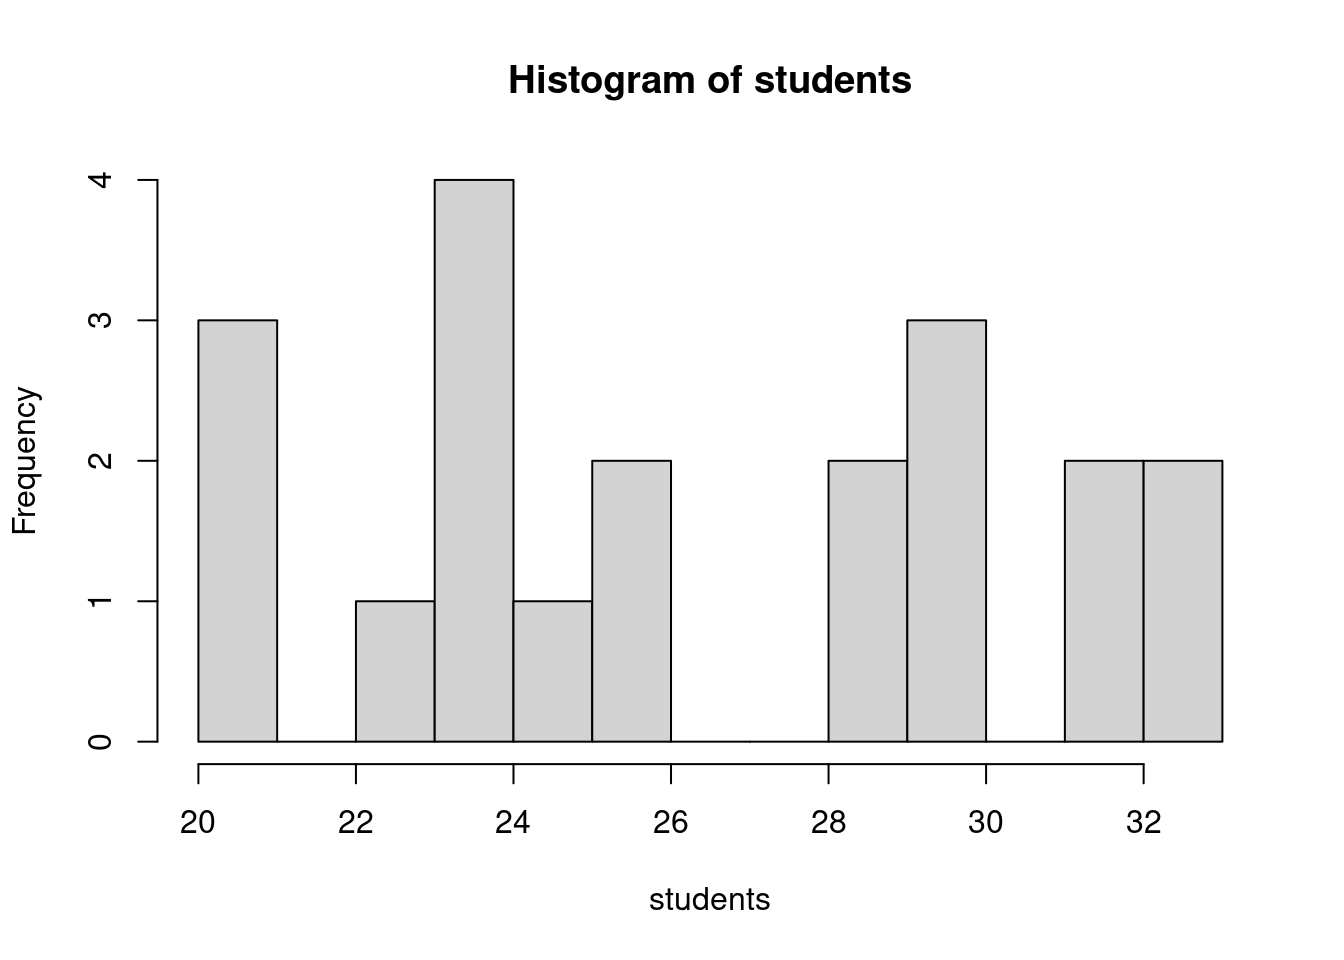
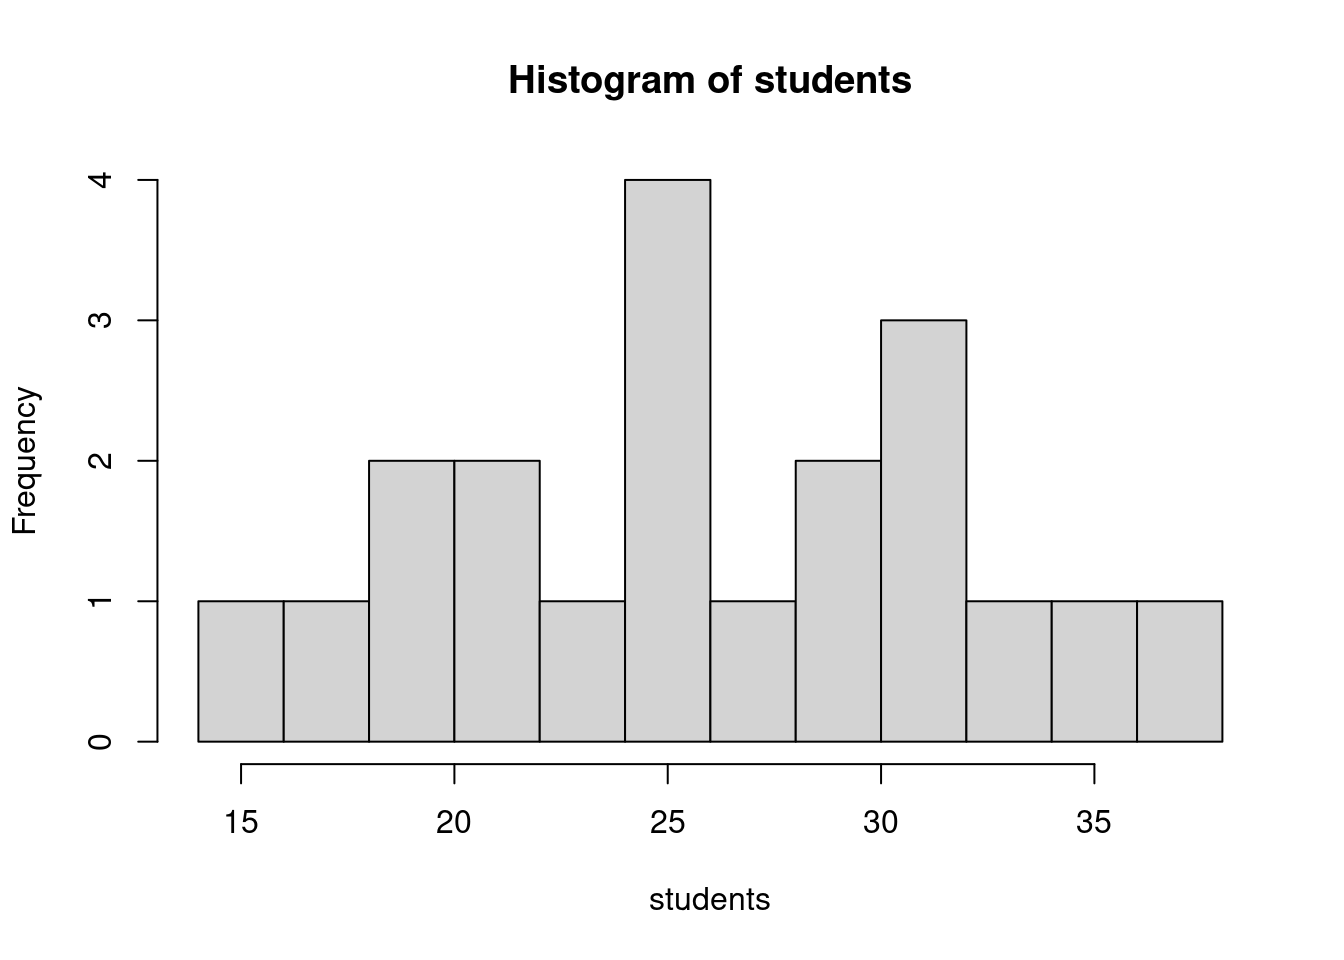
made Kaggle.com a link.

diff --git a/_book/what-is-statistics.html b/_book/what-is-statistics.html
@@ -287,7 +287,7 @@ While I am collecting this data you can reflect on this funny musing. I grew up 
 <span id="cb3-5"><a href="what-is-statistics.html#cb3-5" aria-hidden="true" tabindex="-1"></a><span class="co"># students &lt;- c() </span></span>
 <span id="cb3-6"><a href="what-is-statistics.html#cb3-6" aria-hidden="true" tabindex="-1"></a></span>
 <span id="cb3-7"><a href="what-is-statistics.html#cb3-7" aria-hidden="true" tabindex="-1"></a>students</span></code></pre></div>
-<pre><code>##  [1] 24 24 23 32 21 25 29 26 30 32 30 24 26 30 33 29 24 33 20 21</code></pre>
+<pre><code>##  [1] 20 22 26 21 29 32 31 26 28 26 24 14 26 19 32 35 30 17 33 38</code></pre>
 <p><em>R Notes</em>: c() stands for column and is one of the most basic data structures in R. Most things we will build will either manipulate columns directly or will use structures built out of columns.</p>
 <p>Comments in commands start with <em>hash symbols</em>.</p>
 <p>Another syntax note: R uses both = and &lt;- for assignment though they have slightly different meanings. They both work as you would expect, however &lt;- has some nice positives in the detailed differences and it is worth getting into the habit of using it.</p>
@@ -297,11 +297,11 @@ While I am collecting this data you can reflect on this funny musing. I grew up 
 <p>To get started we can use <em>summary</em> to get an overview of what our list of student enrollments look like. Review the meaning of each of these.</p>
 <div class="sourceCode" id="cb5"><pre class="sourceCode r"><code class="sourceCode r"><span id="cb5-1"><a href="what-is-statistics.html#cb5-1" aria-hidden="true" tabindex="-1"></a><span class="fu">summary</span>(students)</span></code></pre></div>
 <pre><code>##    Min. 1st Qu.  Median    Mean 3rd Qu.    Max. 
-##    20.0    24.0    26.0    26.8    30.0    33.0</code></pre>
+##   14.00   21.75   26.00   26.45   31.25   38.00</code></pre>
 <p>Mean and Median are <em>measures of center</em>, while the quartiles are <em>measures of spread</em>. One measure of spread missing is the variance or its square root standard deviation:</p>
 <div class="sourceCode" id="cb7"><pre class="sourceCode r"><code class="sourceCode r"><span id="cb7-1"><a href="what-is-statistics.html#cb7-1" aria-hidden="true" tabindex="-1"></a><span class="fu">var</span>(students); <span class="fu">sqrt</span>(<span class="fu">var</span>(students))</span></code></pre></div>
-<pre><code>## [1] 17.64211</code></pre>
-<pre><code>## [1] 4.200251</code></pre>
+<pre><code>## [1] 39.52368</code></pre>
+<pre><code>## [1] 6.286786</code></pre>
 <p>The variance is computed by taking the sum of the square differences between the data and the mean and then dividing that by number of items minus one; we will explain why this is what we divide by later in class:
 <span class="math display">\[ S = \frac{1}{n-1} \sum_{j=1}^n (y_j - \bar{y} )^2 \]</span> where <span class="math inline">\(\bar{y}\)</span> is the mean of the sample made up of the <span class="math inline">\(\{ y_1, y_2, \dots, y_n \}\)</span>.</p>
 <p>In the code blocks below I will add some comments about what we are doing:</p>
@@ -311,19 +311,20 @@ While I am collecting this data you can reflect on this funny musing. I grew up 
 <span id="cb10-4"><a href="what-is-statistics.html#cb10-4" aria-hidden="true" tabindex="-1"></a></span>
 <span id="cb10-5"><a href="what-is-statistics.html#cb10-5" aria-hidden="true" tabindex="-1"></a><span class="co"># R can then do the arithmetic and when we combine a list of numbers with a single number and square it, it knows what we mean.</span></span>
 <span id="cb10-6"><a href="what-is-statistics.html#cb10-6" aria-hidden="true" tabindex="-1"></a>(students <span class="sc">-</span> ybar)<span class="sc">^</span><span class="dv">2</span></span></code></pre></div>
-<pre><code>##  [1]  7.84  7.84 14.44 27.04 33.64  3.24  4.84  0.64 10.24 27.04 10.24  7.84
-## [13]  0.64 10.24 38.44  4.84  7.84 38.44 46.24 33.64</code></pre>
+<pre><code>##  [1]  41.6025  19.8025   0.2025  29.7025   6.5025  30.8025  20.7025   0.2025
+##  [9]   2.4025   0.2025   6.0025 155.0025   0.2025  55.5025  30.8025  73.1025
+## [17]  12.6025  89.3025  42.9025 133.4025</code></pre>
 <div class="sourceCode" id="cb12"><pre class="sourceCode r"><code class="sourceCode r"><span id="cb12-1"><a href="what-is-statistics.html#cb12-1" aria-hidden="true" tabindex="-1"></a><span class="co"># Then as we said, we sum over all of these and then divide by the number of them</span></span>
 <span id="cb12-2"><a href="what-is-statistics.html#cb12-2" aria-hidden="true" tabindex="-1"></a><span class="co"># minus 1</span></span>
 <span id="cb12-3"><a href="what-is-statistics.html#cb12-3" aria-hidden="true" tabindex="-1"></a></span>
 <span id="cb12-4"><a href="what-is-statistics.html#cb12-4" aria-hidden="true" tabindex="-1"></a><span class="fu">sum</span>( (students <span class="sc">-</span> ybar)<span class="sc">^</span><span class="dv">2</span> ) <span class="sc">/</span> ( <span class="fu">length</span>(students) <span class="sc">-</span> <span class="dv">1</span> )</span></code></pre></div>
-<pre><code>## [1] 17.64211</code></pre>
+<pre><code>## [1] 39.52368</code></pre>
 <p>Note why we compute variance in this way. We are trying to understand how far the data moves from the mean <span class="math inline">\(\bar{y}\)</span>. However we can’t just sum over the differences as that will just add up to zero:</p>
 <div class="sourceCode" id="cb14"><pre class="sourceCode r"><code class="sourceCode r"><span id="cb14-1"><a href="what-is-statistics.html#cb14-1" aria-hidden="true" tabindex="-1"></a><span class="fu">sum</span>(students <span class="sc">-</span> ybar )</span></code></pre></div>
-<pre><code>## [1] -1.421085e-14</code></pre>
+<pre><code>## [1] 1.421085e-14</code></pre>
 <p>We have choices though, we could sum over the absolute value and indeed that does give us a notion of spread. Here for example is the corresponding average for absolute deviation:</p>
 <div class="sourceCode" id="cb16"><pre class="sourceCode r"><code class="sourceCode r"><span id="cb16-1"><a href="what-is-statistics.html#cb16-1" aria-hidden="true" tabindex="-1"></a><span class="fu">sum</span>( <span class="fu">abs</span>(students <span class="sc">-</span> ybar)) <span class="sc">/</span> (<span class="fu">length</span>(students) <span class="sc">-</span> <span class="dv">1</span> )</span></code></pre></div>
-<pre><code>## [1] 3.873684</code></pre>
+<pre><code>## [1] 5.257895</code></pre>
 <p>However the advantage of summing over the squares is that it brings in tools from Calculus that work with quadratic expressions but not with absolute value expressions. We then intend to take an average. For reasons we will justify later, it turns out the correct average to do is to divide by the size of our sample minus 1: <span class="math inline">\(n-1\)</span> is called the degrees of freedom (roughly computing <span class="math inline">\(\bar{y}\)</span> from the sample has used up one degree of freedom).</p>
 <p>Note the units on these two statistics: the variance is the average of the sum of the squares (by the number of degrees of freedom) so its units are the square of the units of our sample data (<em>students squared</em> in this case); and then the standard deviation is the square root of the variance and so has units of the original data (<em>students</em> in this case).</p>
 </div>
@@ -382,7 +383,7 @@ While I am collecting this data you can reflect on this funny musing. I grew up 
 ## #   Children &lt;dbl&gt;, Annual Income &lt;chr&gt;, City &lt;chr&gt;, State or Province &lt;chr&gt;,
 ## #   Country &lt;chr&gt;, Product Family &lt;chr&gt;, Product Department &lt;chr&gt;,
 ## #   Product Category &lt;chr&gt;, Units Sold &lt;dbl&gt;, Revenue &lt;dbl&gt;</code></pre>
-<p>A couple of notes are in order here before we continue: Note that this data set is made up of samples (rows) each of which has 10 features (columns). Some of the features are numerical - <em>Units Sold</em> and <em>Revenue</em>, while others are purely categorical giving us just a description of the value. Also note there is a factor that looks numerical but for which it would probably be misleading to treat it as such. Note that some of the categorical variables have a natural order in the categories like <em>Annual Income</em> while others will not such as <em>State or Province</em>.</p>
+<p>A couple of notes are in order here before we continue: Note that this data set is made up of samples (rows) each of which has 16 features (columns) (well really 15 plus an identifying number in the first column). Some of the features are numerical - <em>Units Sold</em> and <em>Revenue</em>, while others are purely categorical giving us just a description of the value. Also note there is a factor that looks numerical but for which it would probably be misleading to treat it as such. Note that some of the categorical variables have a natural order in the categories like <em>Annual Income</em> while others will not such as <em>State or Province</em>.</p>
 <p>You will notice the note that the data set has ~14,049 rows: We can only deal with such datasets using a computer program. Without too much work we could find datasets that are too big for Excell and need to be analyzed using a software like R or Python - one reason we teach our students how to use them in their undergraduate courses.</p>
 </div>
 <div id="list-of-features" class="section level3" number="3.3.3">
@@ -623,7 +624,7 @@ Your partner draws two cards from a standard 52 card deck and tells you that one
 <h3><span class="header-section-number">3.6.18</span> What Questions Do You Have?</h3>
 <p>Because this is a course about data, we can look for data related to questions you have. Places I look for data:</p>
 <ul>
-<li>kaggle.com</li>
+<li><a href="kaggle.com">Kaggle</a></li>
 <li><a href="https://data.colorado.gov/">Colorado Data</a></li>
 <li><a href="https://www.data.gov/">USA Data</a></li>
 <li><a href="http://data.un.org/">United Nations Data</a></li>
